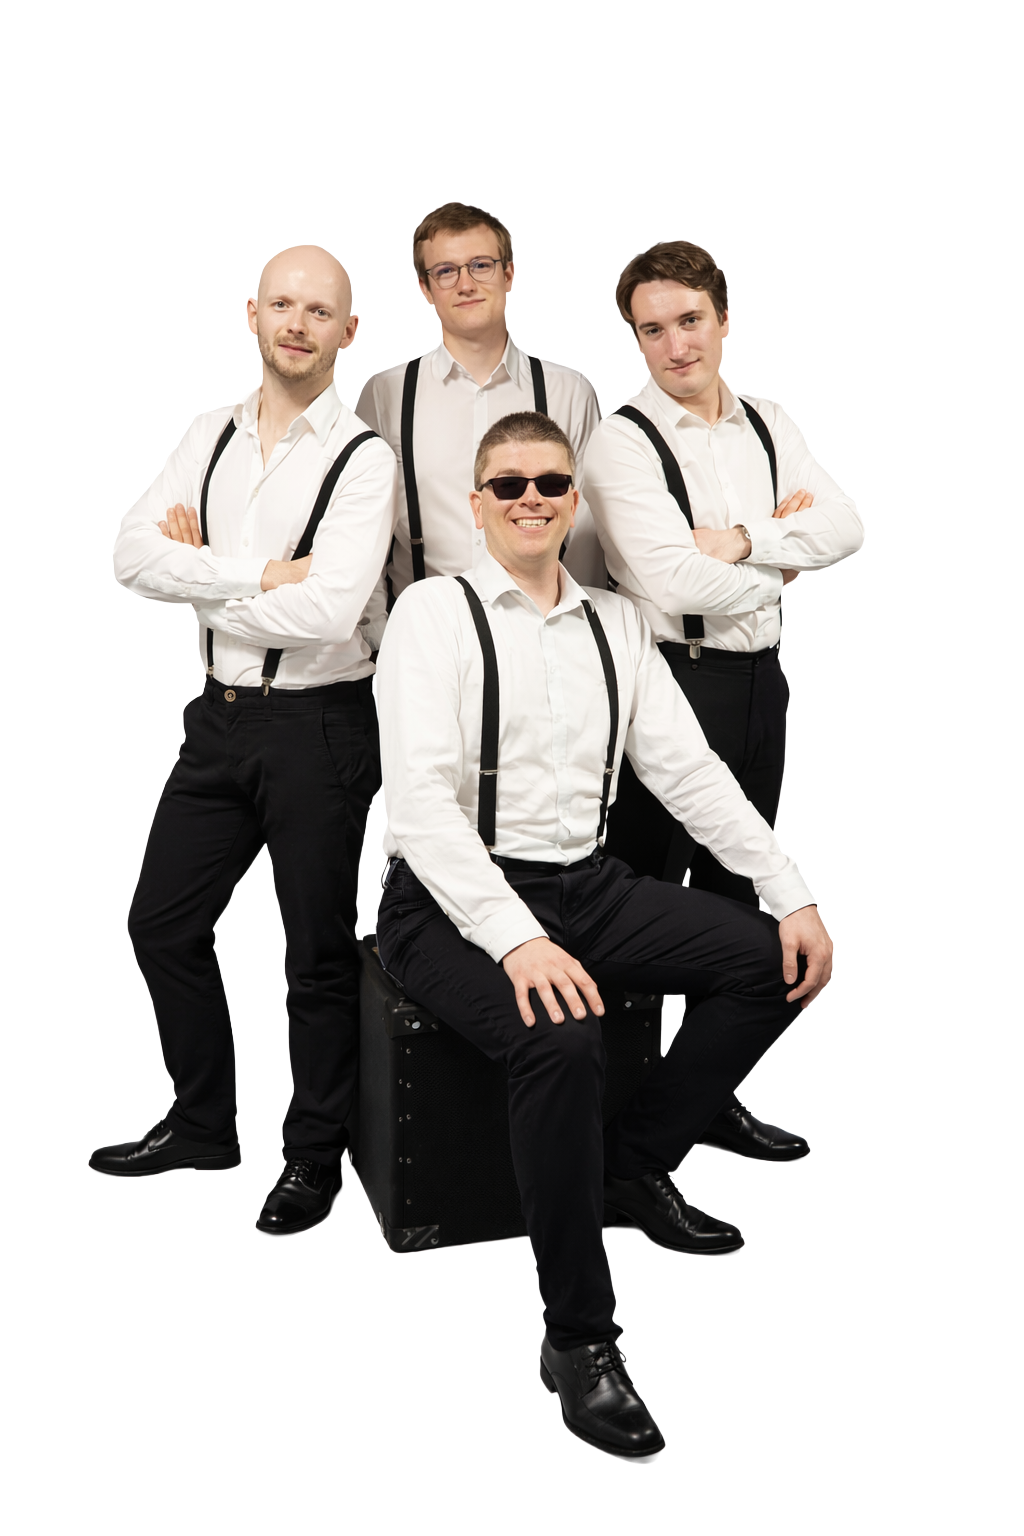
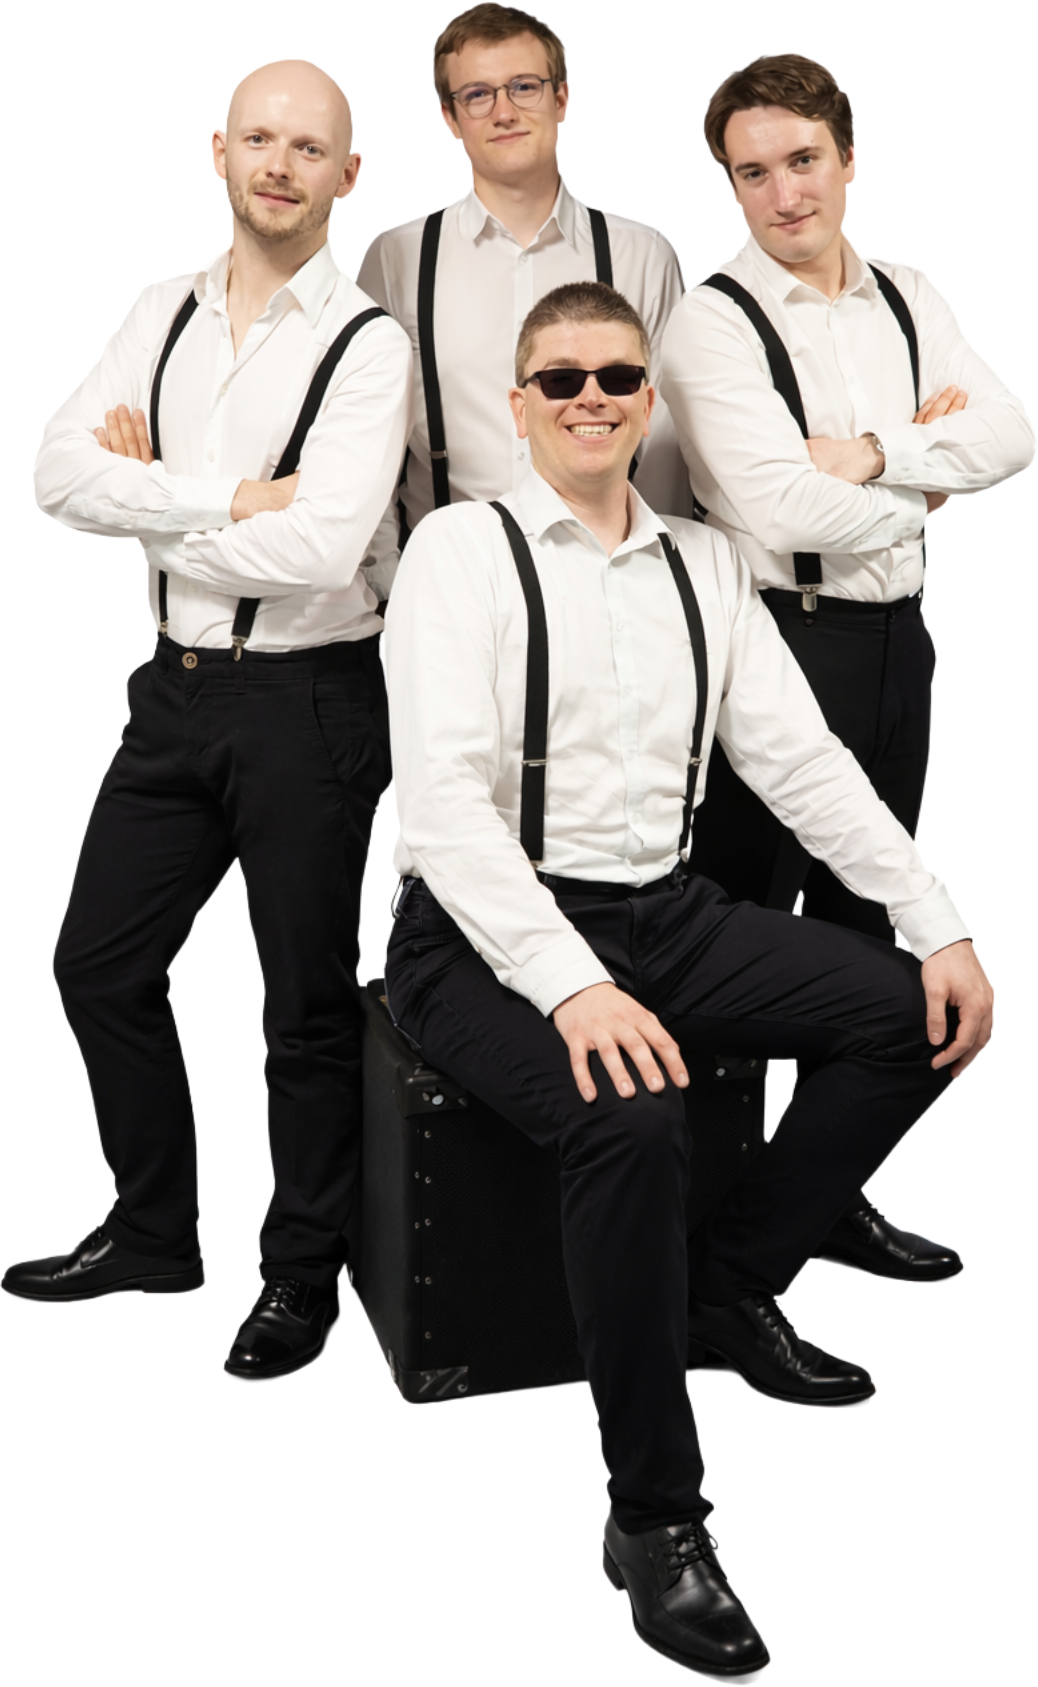
Hero Mobile: Bandfoto verbessert, Leerraum reduziert, Alt-Text korrigiert
- band.png durch freigestellte Version ersetzt (transparenter Hintergrund)
- Negativen Margin auf Foto-Container erhöht um transparente Bildpixel zu kompensieren
- Alt-Text korrigiert: beschreibt jetzt die vier Bandmitglieder korrekt

diff --git a/src/app/page.tsx b/src/app/page.tsx
@@ -18,7 +18,7 @@ export default function Startseite() {
         primaryCta={{ label: "Unverbindlich anfragen", href: "/kontakt" }}
         secondaryCta={{ label: "Repertoire ansehen", href: "/repertoire" }}
         contactBar={true}
-        photoAlt="Kreiz & Quer live auf der Bühne"
+        photoAlt="Die vier Bandmitglieder von Kreiz & Quer in weißem Hemd, dunkler Hose und Hosenträgern"
       />
 
       {/* 2. Video */}

diff --git a/src/components/HeroSection.tsx b/src/components/HeroSection.tsx
@@ -110,7 +110,7 @@ export default function HeroSection({
         </div>
 
         {/* BOTTOM: Foto + Gradient + CTAs — drei unabhängige Ebenen */}
-        <div className="relative flex-1 min-h-[420px]">
+        <div className="relative flex-1 min-h-[420px] -mt-20">
           <Image
             src="/band.png"
             alt={photoAlt}
